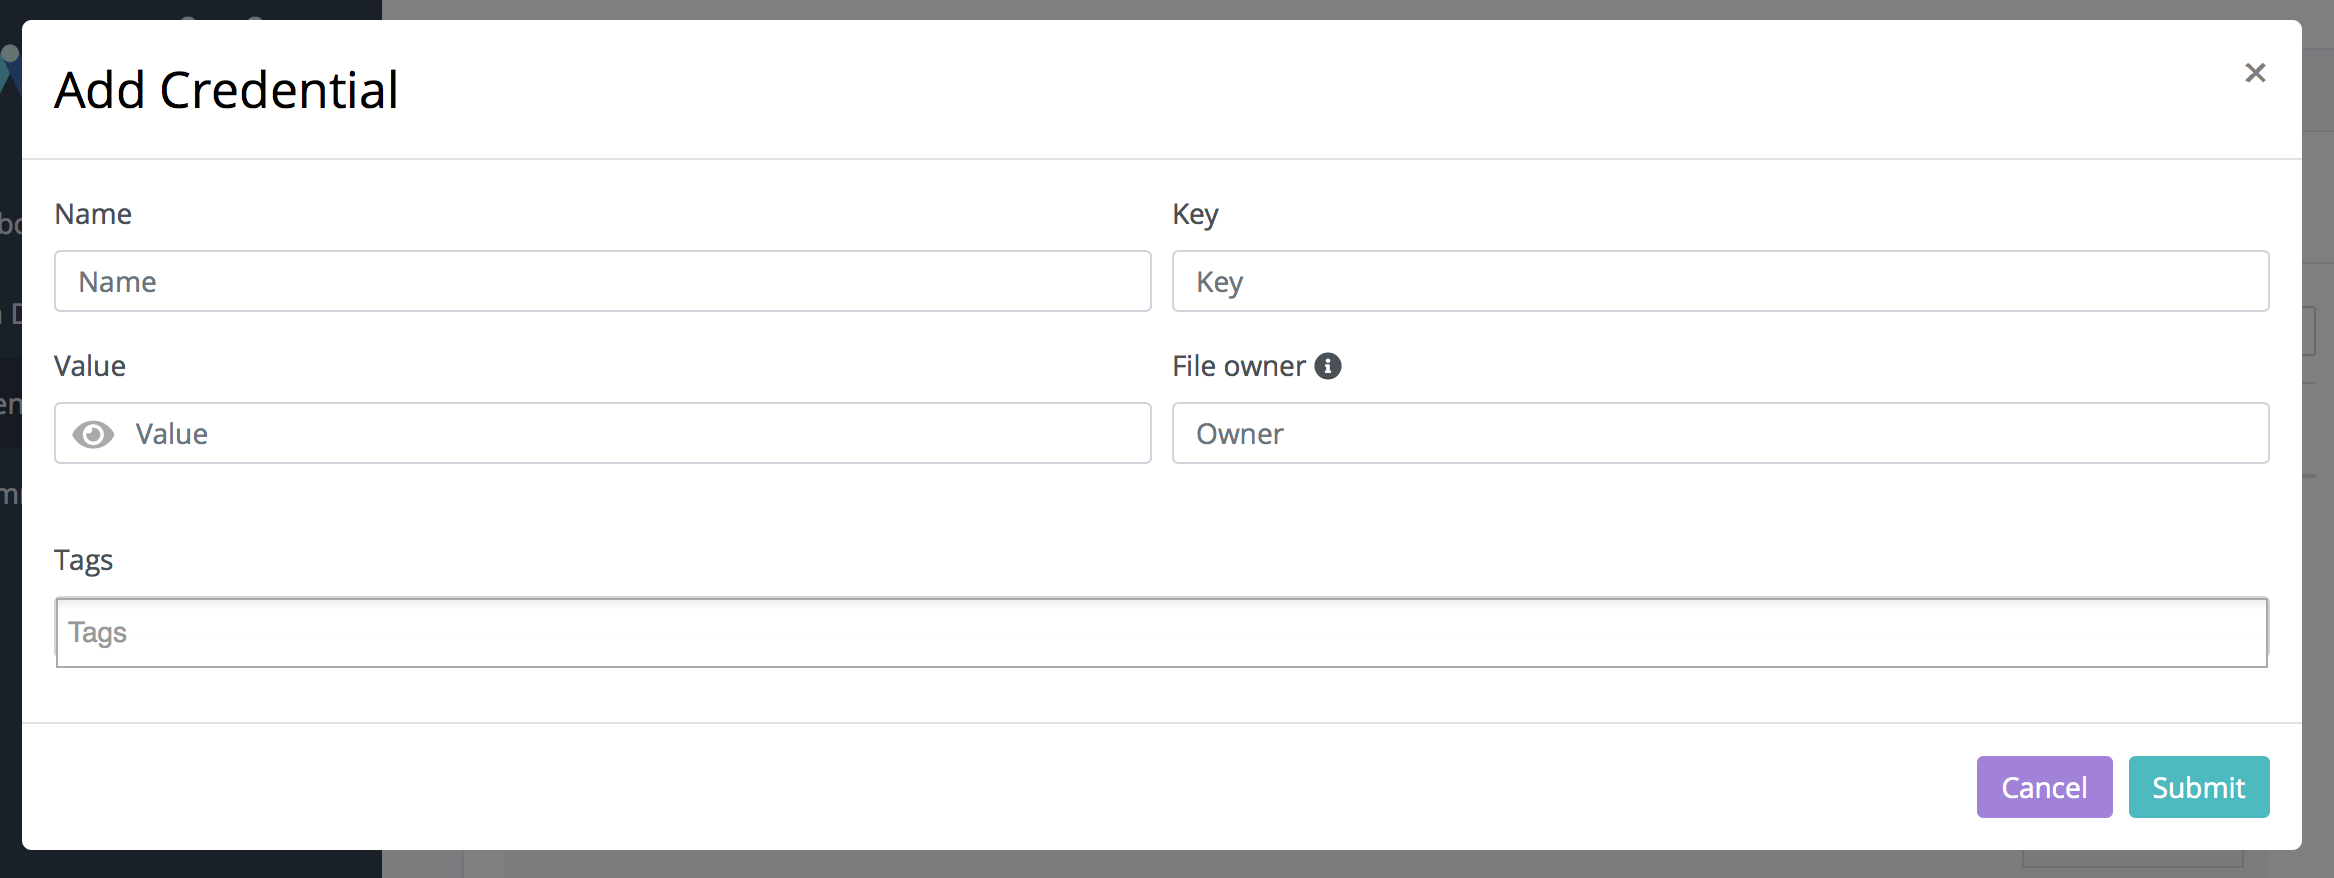
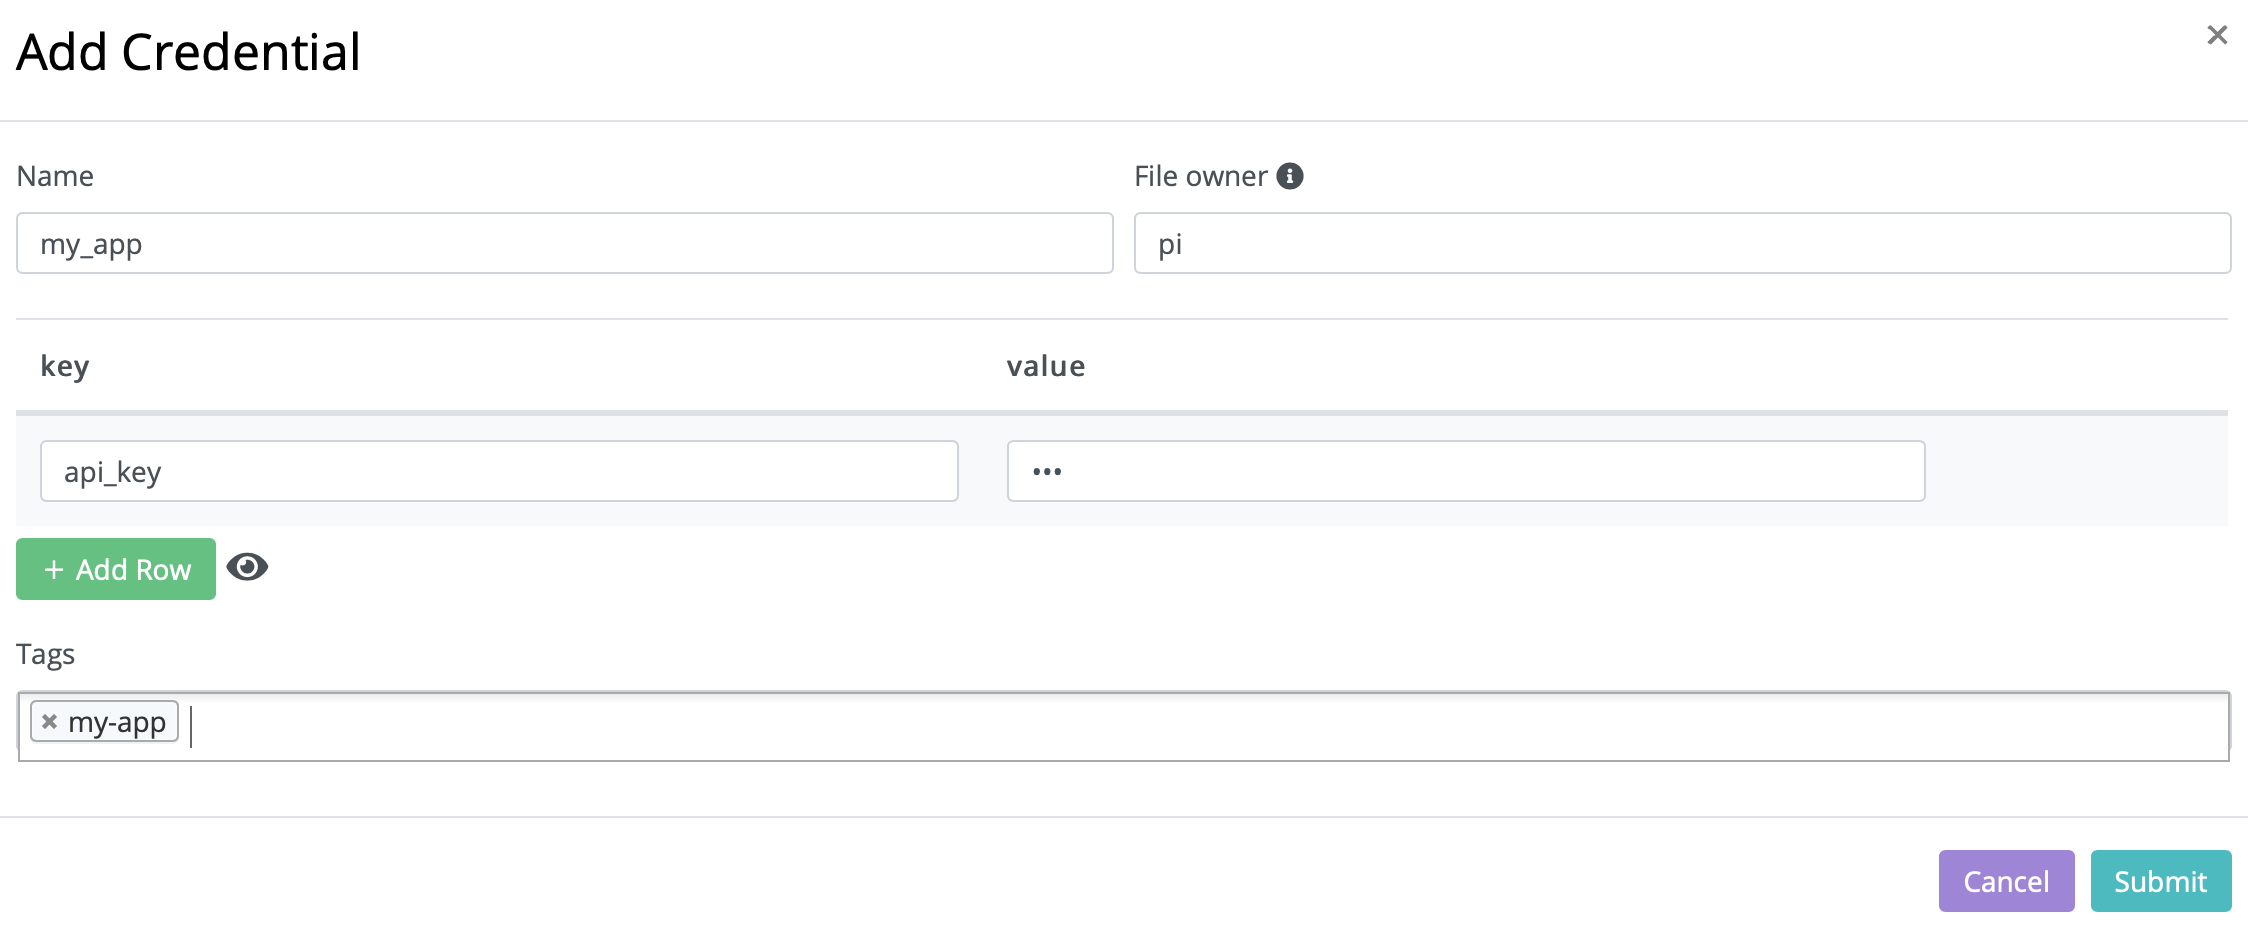
Adds initial refactoring of gettings started guilde.

Changed region(s): [[0.0, 0.0, 1.0, 1.0]]

diff --git a/documentation/getting-started.md b/documentation/getting-started.md
@@ -10,25 +10,26 @@ redirect_from:
   - /blog/categories/getting-started
 ---
 
-Welcome to WoTT - the first step to securing your IoT devices.
+Welcome to WoTT - the first step to securing your IoT and edge devices.
 
 ## A brief overview of WoTT's services
 
-WoTT's primary goal is to simplify and manage end-to-end security for IoT developers.
+WoTT's primary goal is to simplify and manage end-to-end security for developers.
+
 We provide this in a number of ways:
 
 * Simplified encryption of device communication
-* Cryptographic identity (verification of access)
+* Cryptographic identity (x509 certificate issued from our CA)
 * Enabling the removal of hard coded credentials from web applications and firmware
 
-You can access all these features by installing the [WoTT Agent](https://github.com/WoTTsecurity/agent) and using the [WoTT Dashboard](https://dash.wott.io) to manage your devices through a simple and user-friendly interface. We'll walk you through step-by-step in setting up and installing the WoTT agent so you can start to implement hassle-free security on your IoT devices.
+You can access all these features by installing the [WoTT Agent](https://github.com/WoTTsecurity/agent) and using the [WoTT Dashboard](https://dash.wott.io) to manage your devices through a simple and user-friendly interface. We'll walk you through step-by-step in setting up and installing the WoTT agent so you can start to implement hassle-free security on your IoT or edge devices.
 
-Ultimately we want to give you the developers the safety of secure devices on the internet so you can integrate your projects on a multitude of platforms without the complexity of managing individual certificates or authenitication. WoTT secures your projects so that you don't have to.
+Ultimately we want to give you the developers the safety of secure devices on the internet so you can integrate your projects on a multitude of platforms without the complexity of managing individual certificates or authentication. WoTT secures your projects so that you don't have to.
 
 ## A little more on 'cryptographic' identity
 
 Our lightweight agent handles identifying your device as well as verifying inter-device communication cryptographically [1]. What this essentially means is that the agent assigns a certificate from WoTT's own certificate authority (CA) to your device to secure it [2].
-The agent does this based on a unique value assigned to your device which acts as an identifier to other devices. The purpose of this is to restrict access to trusted devices preventing fraudlent access and attacks.
+The agent does this based on a unique value assigned to your device which acts as an identifier to other devices. The purpose of this is to restrict access to trusted devices preventing fraudulent access and attacks.
 
 * [1] Done through mutual TLS (mTLS)
 * [2] WoTT does this using an x509 security certificate. These certificates refresh every 7 days.
@@ -41,65 +42,41 @@ In an ideal world, we would do away with the need for usernames and passwords en
 
 As a developer, you will likely be accessing a large range of internet/cloud services that require basic HTTP authentication or an API key. In most instances, such credentials are hard coded into applications and can be easily read with access to said applications. WoTT introduces credential management so that you can remotely download the necessary credentials onto your device as a JSON file. This removes the need for hard coded keys and logins from your application.
 
-We do this via our Dasboard which you can use to monitor your devices. The Dashboard gives your device a trust score (based on how secure it is) as well as giving you the means to add and manage credentials for whatever purpose you need them for.
+We do this via our Dashboard which you can use to monitor your devices. The Dashboard gives your device a trust score (based on how secure it is) as well as giving you the means to add and manage credentials for whatever purpose you need them for.
 
 ## Installing the WoTT agent and claiming your device
 
-First, create an account for the [WoTT Dashboard](https://dash.wott.io) and login - you will need this to claim your device later.
+First, create an account for the [WoTT Dashboard](https://dash.wott.io) and login.
 
-Currently, the Agent is only available to Debian package distributions such as Raspbian (for Pi) or Debian. You will also need to have `curl` installed.
+Currently, the Agent is only available to Debian package distributions such as Debian (including Raspbian) and Ubuntu.
 
-To install the agent, run the following in terminal:
+To install the agent, simply go to the WoTT dashboard, and press the 'Add Device' button. Next, either copy each line one-by-one or use the copy icon to get the entire block as a one-liner.
 
-```
-$ curl -s https://packagecloud.io/install/repositories/wott/agent/script.deb.sh | sudo bash
-$ sudo apt install wott-agent
-```
-The terminal will now output your WoTT Device ID, claim token, and a link to claim the device.
-Copy and paste this link into your browser- the fields may already have autofilled. Otherwise fill in the details in the relevant fields.
+{% asset docs/add-device.png srcset:width="1300 2x" srcset:width="650 1x" alt="Add device from the dashboard" class="img-fluid" %}
 
-{% asset docs/claim-device.png srcset:width="1300 2x" srcset:width="650 1x" alt="Claim device on WoTT Dashboard" class="img-fluid" %}
-
-**Note:** you can view your Device ID and claim token using the following commands as well:
+With this in your clip board/buffer, SSH into your device and paste in the command. Assuming things went well, you should see something similar to this:
 
 ```
-$ wott-agent whoami
-$ wott-agent claim-token
+[...]
+$ sudo apt install -y wott-agent
+[...]
+Good job installing the wott-agent and welcome to the community of security conscious hardware devs!
+
+Your device has already been claimed in the WoTT dashboard (https://dash.wott.io).
+
+Your device's unique ID is: x.d.wott.local
+
+For more information, visit wott.io/getting-started or drop us a line at hey@wott.io.
+
+Regards,
+The WoTT Team
 ```
+
 Your device will now be registered and viewable on the WoTT Dashboard. You can now see the relative trust scores of your devices. To see device specific information, select it and add appropriate tags to these devices (this is relevant for credential management).
 
 See below for an example of a Raspberry Pi with its WoTT meta tags (automatically assigned based on hardware) and the user's personal tags for the Pi's purpose.
 
 {% asset docs/rasbpi-profile.png srcset:width="1300 2x" srcset:width="650 1x" alt="Raspberry Pi example profile" class="img-fluid" %}
-
-## Managing your own credentials through the WoTT Dashboard
-
-In scenarios where you might require API keys or logins for your applications, you can add and manage these credentials to the WoTT Dashboard. On the left of WoTT Dashboard is a sidebar.
-
-{% asset docs/sidebar.png srcset:width="1300 2x" srcset:width="650 1x" alt="WoTT Dashboard sidebar" class="img-fluid" %}
-
-Navigate to 'Credentials.' Select 'Add a credential'
-
-{% asset docs/credentials.png srcset:width="1300 2x" srcset:width="650 1x" alt="WoTT Credentias menu" class="img-fluid" %}
-
-Let's break down the fields:
-
-* **Name:** name of credential file, for example `my_app`.
-* **Key:** contents of credential, for example: `api_key`, `login_details`, or simply `credentials`.
-* **Value:** actual value of the login/key required for access (the bit that should be hidden). This should be done in `username:password` format for a login.
-* **Owner:** optional field, reccommended for Raspberry Pis. The owner is the Linux user that will own the file on the system. On Raspberry Pi, the default user is `pi`.
-* **Tags:** must match the tags on the device that you are downloading to.
-
-Once you've added a credential, you can check for it on your device by running:
-
-```
-$ cat /opt/wott/credentials/NAME.json
-```
-Note that you will either have to wait 15 minutes for the WoTT agent to refresh or restart it immediately with:
-```
-$ sudo service wott-agent restart
-```
-Additionally, older Pi hardware may take longer to load these certificates, so do wait a few minutes if the file has not downloaded yet.
 
 ## Finishing notes
 
@@ -108,4 +85,7 @@ You're now set up with both the WoTT Agent and Dashboard and have taken the firs
 WoTT certificates refresh every 7 days, so you will need to account for that in your applications.
 Credentials are downloaded either when WoTT fetches data or when restarted. You may also find yourself being denied permissions for some of the commands we've shown you, use `sudo` where necessary to circumvent this.
 
-These certificates and credentials can now be used to secure end-to-end device communication and web applications, check out some of the use cases and examples on the [WoTT Agent Github](https://github.com/WoTTsecurity/agent) for inspiration and ideas on how to use WoTT for your own projects.
+## What's next?
+
+* [Manage credentials with WoTT]({{site.url}}/documentation/manage-credentials)
+* [Learn more about our use cases]({{site.url}}/documentation/use-cases)

diff --git a/documentation/manage-credentials.md b/documentation/manage-credentials.md
@@ -1,0 +1,74 @@
+---
+layout: docs-cat
+description: 'Manage credentials with WoTT'
+title: 'Getting started with managing credentials with the WoTT Agent and Dashboard'
+full_description: We'll show you how to manage credentials, and how to easily rotate credentials for your devices using the WoTT dashboard and agent.
+title_content: 'Manage credentials with WoTT'
+---
+
+## Managing your credentials through the WoTT Dashboard
+
+It is unfortunately common that developers "bake in" credentials to both 3rd party services as well as credentials to the actual device into the firmware or software. This is commonly done out of convenience, despite it contradicting best practices. The downside with this however is that it both makes it very easy for an attacker or malicious user to extract this data. What makes matters worse is that these credentials are often shared across the entire fleet of devices. Depending on what type of credentials these are, the attacker could do things such as:
+
+ * Perform a simple rate limiting attack, meaning that they perform enough requests per minute or hour until the 3rd party service cuts off the access, which then means that none of your other devices can interact with the 3rd party service.
+ * Inject bogus data or delete your data, which can significantly impact your business operation.
+ * Use these credentials as a stepping stone as part of a more sophisticated attack, where the attacker can escalate further into your infrastructure.
+
+Assuming you as the developer even detect that that these credentials leaked, your only remedy is to issue a firmware update to the entire fleet in order to rotate the credentials. However, even this is a somewhat pointless exercise, as it the attacker can easily repeat the attack to gain access to the new credentials.
+
+Enter WoTT. As per industry best practice dictates, you should never include credentials as part of your code base or firmware. WoTT makes enables you to easily separate out your credentials from the software. In real simple terms, the way it works is that you read the credentials from a JSON file on disk. Because of this separation, WoTT makes it easy to manage the credentials independently from the firmware. Moreover, as part of this separation, WoTT makes it easy to rotate keys across the entire fleet, or to provide unique credentials for every single device.
+
+## Example: A shared, but easily rotatable, API key across the fleet
+
+In scenarios where you might require an API key to a 3rd party service for your applications. Let's assume this is a non-critical service, weather service that looks up the temperature for given location (that is compared to the temperature from a sensor to calculate the temperature delta).
+
+To do this, we login to the WoTT Dashboard. On the left of WoTT Dashboard you can see a section called "Credentials". Click on it.
+
+{% asset docs/sidebar.png srcset:width="1300 2x" srcset:width="650 1x" alt="WoTT Dashboard sidebar" class="img-fluid" %}
+
+Select 'Add a credential'
+
+{% asset docs/credentials.png srcset:width="1300 2x" srcset:width="650 1x" alt="WoTT Credentias menu" class="img-fluid" %}
+
+Let's break down the fields:
+
+* **Name:** name of credential file, for example `my_app`.
+* **Key:** contents of credential, for example: `api_key`.
+* **Value:** actual value of the login/key required for access (the bit that should be hidden).
+* **Owner:** optional field, recommended for Raspberry Pis. The owner is the Linux user that will own the file on the system. On Raspberry Pi, the default user is `pi`.
+* **Tags:** must match the tags on the device that you are downloading to, such as 'my-app'
+
+This should now be accessible on any device with the tag that you added. The agent will periodically fetch these credentials. To speed things up, you can run the command `sudo wott-agent credentials` when you are testing this out.
+
+With the credentials synced, you should be able to find all credentials in the folder `/opt/wott/credentials/$USERNAME/$NAME.json`. To reveal the API key we generated above, simply run:
+
+```
+$ cat /opt/wott/credentials/pi/my_app.json
+{
+    "api_key": "abc123"
+}
+```
+
+All we now need to do in our application is to instead of hardcoding the credentials in our application, we read them from the above JSON file. In most programming languages, this would merely require a few lines of code.
+
+## Example: Unique keys per devices
+
+In the above example, we used tags to assign a shared key to one or more devices in a fleet. In a perfect world, you'd have individual credentials for each device. WoTT enables you to do this too. We call this "Device Metadata". You can find this configuration if you navigate to a device and select the "Metadata" tab. You can then create as many per-device keys as you want. These can be anything from configuration values, to credentials.
+
+If we for instance create a new key-value pair "Hello: World", we can read this back much as we did above:
+
+```
+$ sudo cat /opt/wott/device_metadata.json
+{
+    "manufacturer": "Raspberry Pi",
+    "Hello": "World",
+    "model-decoded": "Zero v1.2",
+    "device-name": "My Device",
+    "model": "900092",
+    "device_id": "x.d.wott.local"
+}
+```
+
+As you can see above, we automatically populate this file with some handy meta data that you might want want to use as part of your application logic.
+
+Please do note that if you want to speed up a sync, you need to use the command `sudo wott-agent device-metadata`.
